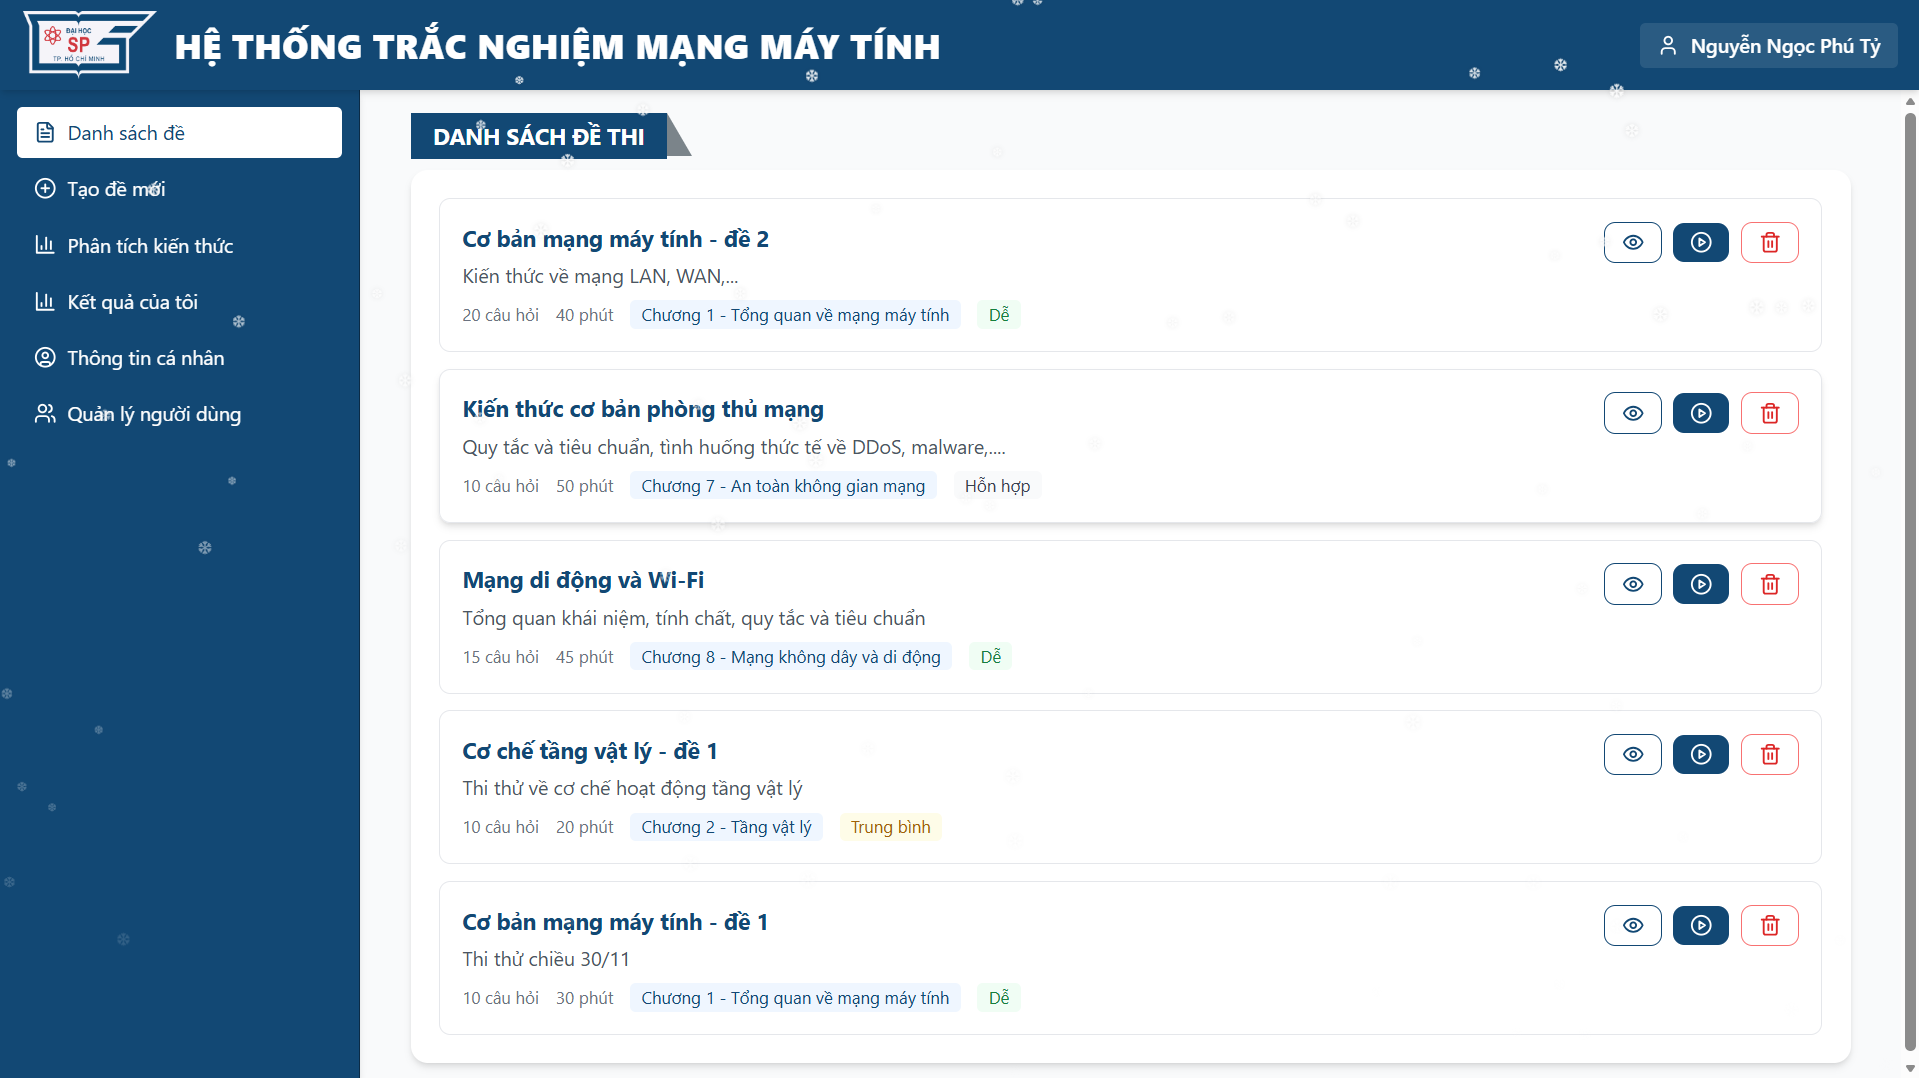
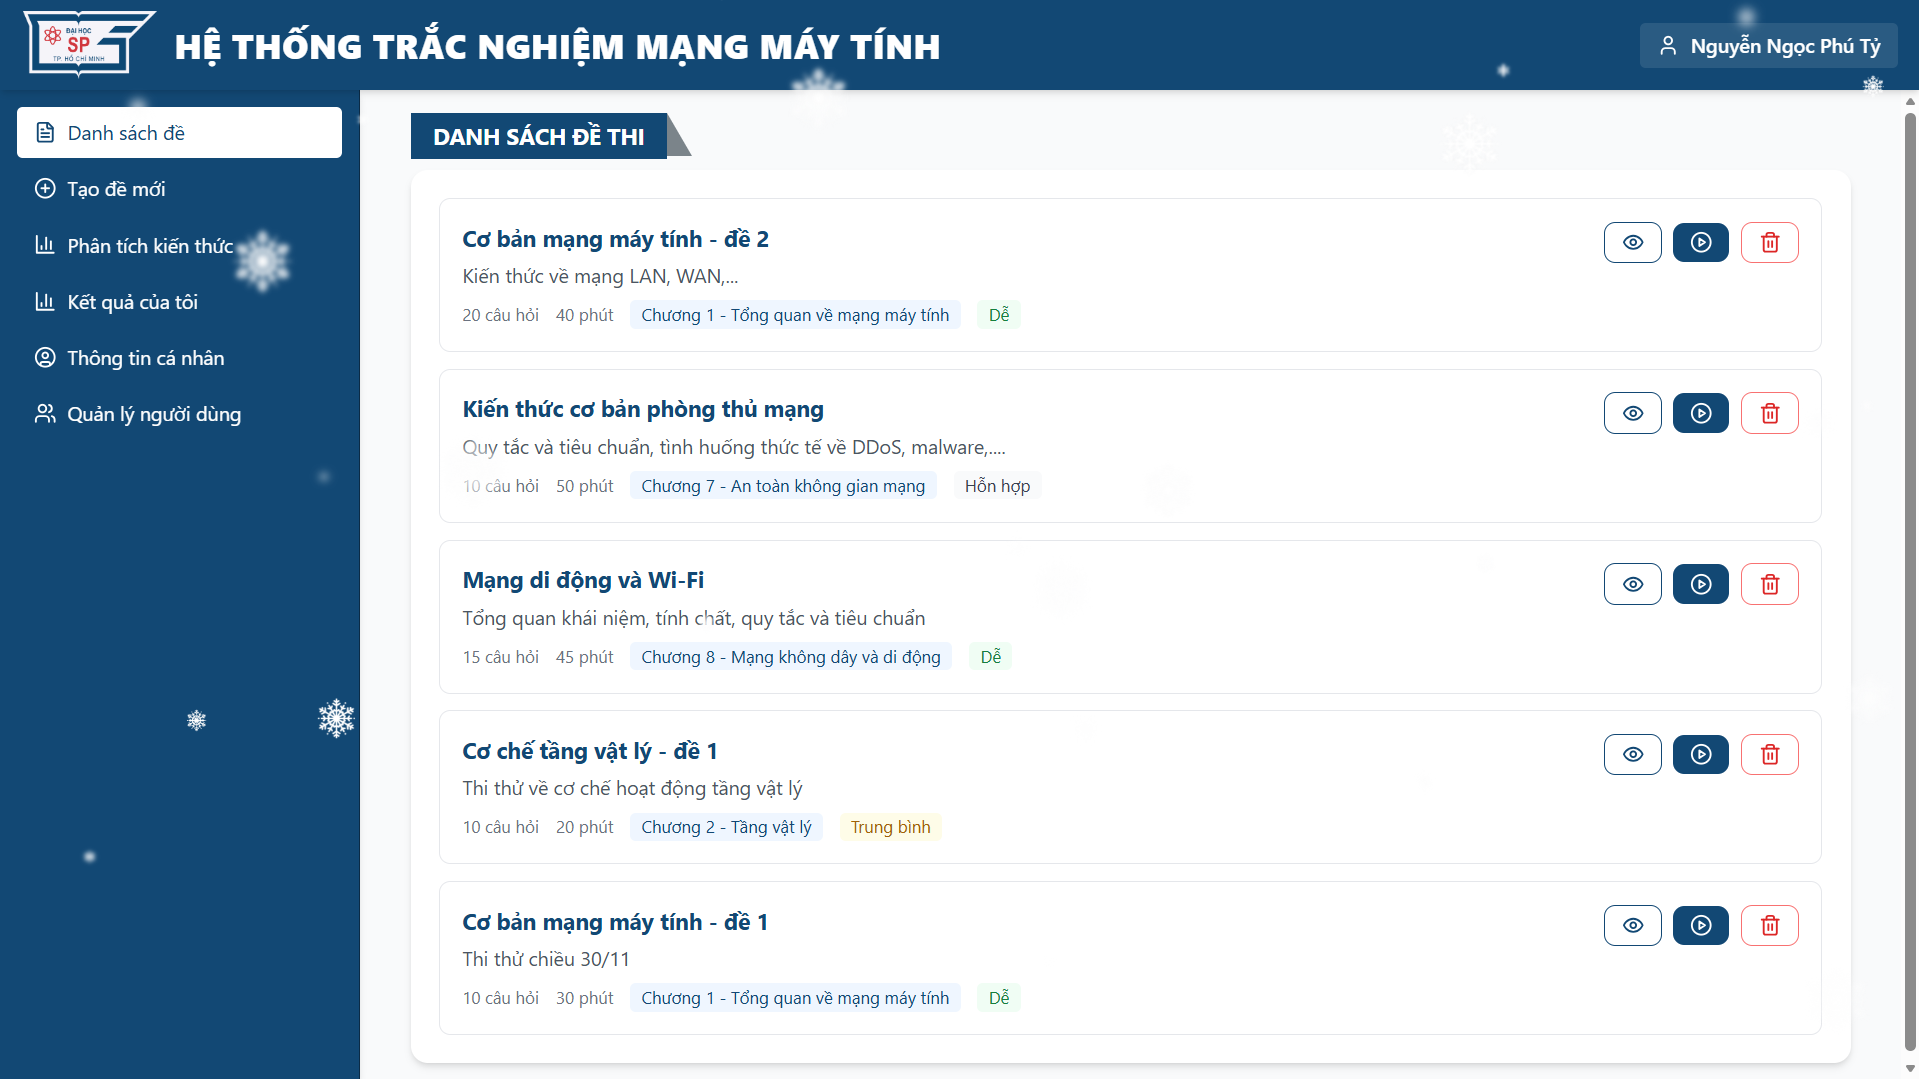
update tuyết v2

diff --git a/client/src/index.css b/client/src/index.css
@@ -34,27 +34,34 @@
   }
 }
 
-@keyframes snowfall {
+#container, .snow {
+  pointer-events: none;
+  z-index: 9999;
+}
+
+.snow {
+  position: absolute;
+  width: 50px;
+  height: 50px;
[1 lines of base64/hex data omitted]
+  background-size: cover;
+  background-position: 50%;
+  animation: moveSnow 10s linear infinite;
+}
+
+@keyframes moveSnow {
   0% {
-    transform: translate3d(0, -10%, 0);
     opacity: 0;
+    transform: translateX(0) translateY(0);
   }
   10% {
     opacity: 1;
   }
+  90% {
+    opacity: 1;
+  }
   100% {
-    transform: translate3d(0, 110vh, 0);
     opacity: 0;
+    transform: translateX(200px) translateY(140vh);
   }
 }
-
-.snowflake {
-  position: absolute;
-  top: -10%;
-  color: rgba(255, 255, 255, 0.95);
-  text-shadow: 0 0 4px rgba(0, 0, 0, 0.2);
-  animation-name: snowfall;
-  animation-timing-function: linear;
-  animation-iteration-count: infinite;
-}
-

diff --git a/client/src/components/Snowfall.tsx b/client/src/components/Snowfall.tsx
@@ -2,43 +2,49 @@ import { useMemo } from 'react';
 
 interface SnowflakeConfig {
   left: string;
+  top: string;
   delay: string;
   duration: string;
   opacity: number;
+  blur: number;
   size: number;
 }
 
-const SNOWFLAKE_COUNT = 80;
+const SNOWFLAKE_COUNT = 40;
 
 export default function Snowfall() {
   const flakes = useMemo<SnowflakeConfig[]>(() => {
-    return Array.from({ length: SNOWFLAKE_COUNT }, (_, index) => {
-      const left = `${Math.random() * 100}%`;
-      const delay = `${Math.random() * 5}s`;
-      const duration = `${6 + Math.random() * 6}s`;
-      const opacity = 0.4 + Math.random() * 0.6;
-      const size = 8 + Math.random() * 8;
-
-      return { left, delay, duration, opacity, size };
+    return Array.from({ length: SNOWFLAKE_COUNT }, () => {
+      const left = `${-10 + Math.random() * 110}%`;
+      const top = `${-40 - Math.random() * 20}vh`;
+      const delay = `${Math.random() * 4}s`;
+      const duration = `${10 + Math.random() * 5}s`;
+      const opacity = Math.random() > 0.5 ? 0.3 + Math.random() * 0.3 : 0.8 + Math.random() * 0.2;
+      const hasBlur = Math.random() > 0.15;
+      const blur = hasBlur ? 0.5 + Math.random() * 3.5 : 0;
+      const isSmall = Math.random() < 0.7;
+      const size = isSmall ? 8 + Math.random() * 12 : 30 + Math.random() * 30;
+      return { left, top, delay, duration, opacity, blur, size };
     });
   }, []);
 
   return (
-    <div className="pointer-events-none fixed inset-0 overflow-hidden z-30">
+    <div className="pointer-events-none fixed inset-0 z-30" style={{ overflow: 'hidden' }}>
       {flakes.map((flake, index) => (
         <div
           key={index}
-          className="snowflake"
+          className="snow"
           style={{
             left: flake.left,
+            top: flake.top,
             animationDelay: flake.delay,
             animationDuration: flake.duration,
             opacity: flake.opacity,
-            fontSize: `${flake.size}px`
+            filter: flake.blur > 0 ? `blur(${flake.blur}px)` : 'none',
+            width: `${flake.size}px`,
+            height: `${flake.size}px`,
           }}
-        >
-          ❆
-        </div>
+        />
       ))}
     </div>
   );

diff --git a/client/src/components/Login.tsx b/client/src/components/Login.tsx
@@ -1,5 +1,6 @@
 import { useState } from 'react';
 import { useAuth } from '../contexts/AuthContext';
+import Snowfall from './Snowfall';
 
 export default function Login() {
   const [email, setEmail] = useState('');
@@ -22,7 +23,8 @@ export default function Login() {
   };
 
   return (
-    <div className="min-h-screen flex flex-col md:flex-row bg-gray-50">
+    <div className="min-h-screen flex flex-col md:flex-row bg-gray-50 relative">
+      <Snowfall />
       {/* Left: large image (3/5 on desktop) */}
       <div className="hidden md:block md:w-2/3">
         <img
